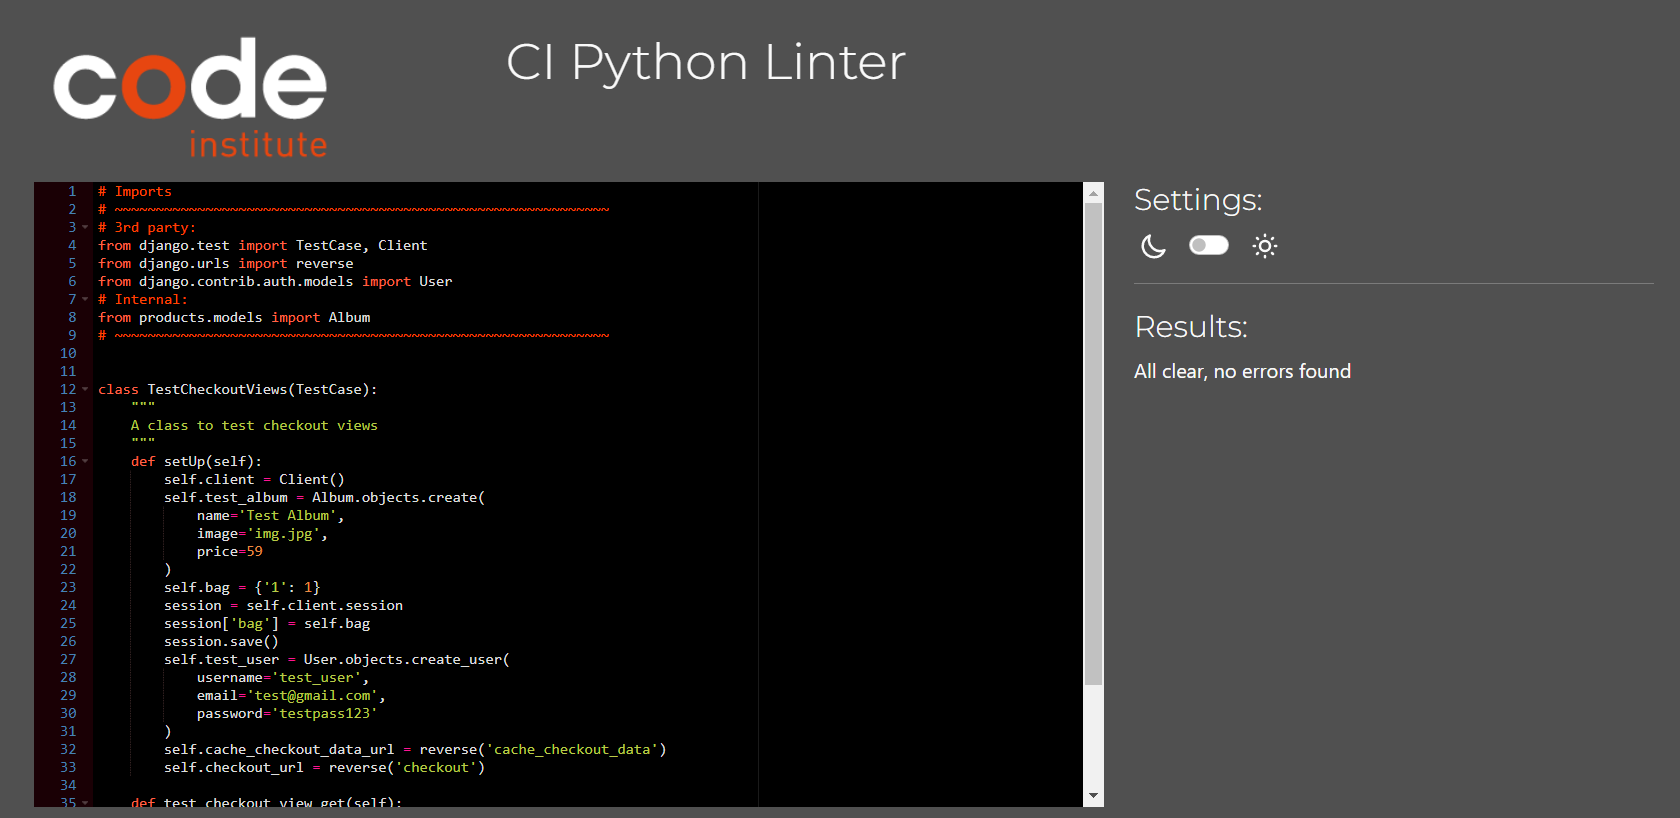
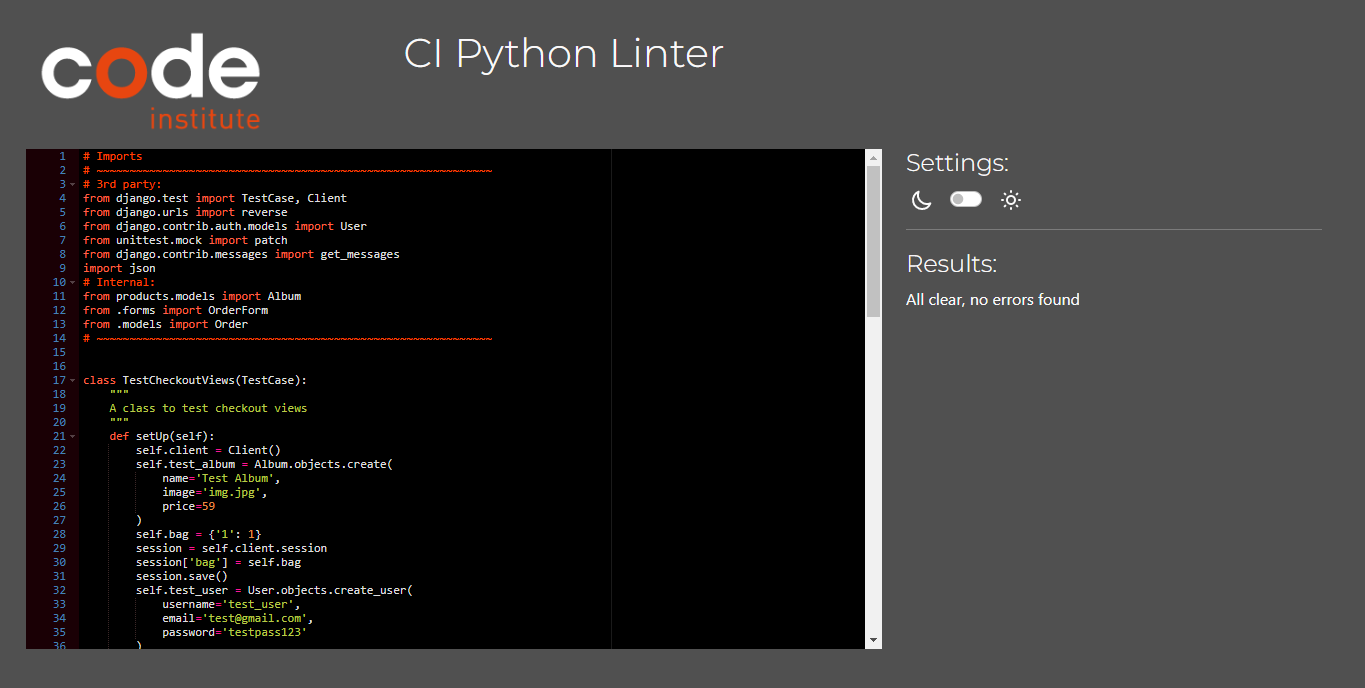
add checkout views unittest, add automated testing section to readme

Changed region(s): [[0.0, 0.0305, 0.8, 1.0], [0.2769, 0.0305, 0.5538, 0.1221]]

diff --git a/checkout/test_views.py b/checkout/test_views.py
@@ -4,8 +4,13 @@
 from django.test import TestCase, Client
 from django.urls import reverse
 from django.contrib.auth.models import User
+from unittest.mock import patch
+from django.contrib.messages import get_messages
+import json
 # Internal:
 from products.models import Album
+from .forms import OrderForm
+from .models import Order
 # ~~~~~~~~~~~~~~~~~~~~~~~~~~~~~~~~~~~~~~~~~~~~~~~~~~~~~~~~~~~~
 
 
@@ -29,6 +34,20 @@ class TestCheckoutViews(TestCase):
             email='test@gmail.com',
             password='testpass123'
         )
+        self.valid_test_data = {
+                'full_name': 'Test User',
+                'email': 'testuser@test.com',
+                'phone_number': '12345678',
+                'address1': '12 Test Street',
+                'address2': 'Test Address',
+                'postcode': 'TE54T1',
+                'town_or_city': 'Test City',
+                'country': 'US',
+                'county': 'Test County',
+                'client_secret': 'test_secret',
+                'save_info': True
+        }
+        self.client.login(username='test_user', password='testpass123')
         self.cache_checkout_data_url = reverse('cache_checkout_data')
         self.checkout_url = reverse('checkout')
 
@@ -39,3 +58,52 @@ class TestCheckoutViews(TestCase):
         response = self.client.get(self.checkout_url)
         self.assertEqual(response.status_code, 200)
         self.assertTemplateUsed(response, 'checkout/checkout.html')
+
+    def test_cache_checkout_data_view(self):
+        """
+        A function to test caching checkout data
+        """
+        pid = 'test_pid'
+        save_info = 'false'
+        bag = self.bag
+        with patch('checkout.views.stripe.PaymentIntent.modify') \
+                as mock_modify:
+            response = self.client.post(self.cache_checkout_data_url, {
+                                'client_secret': f'{pid}_secret',
+                                'save_info': save_info,
+                                'username': self.test_user,
+                                'bag': json.dumps(bag)
+                            })
+            self.assertEqual(response.status_code, 200)
+            mock_modify.assert_called_once_with(pid, metadata={
+                'bag': json.dumps(bag),
+                'save_info': save_info,
+                'username': self.test_user,
+            })
+
+    def test_checkout_view_with_empty_bag(self):
+        """
+        A function to test checkout view with empty bag
+        """
+        self.bag = {}
+        session = self.client.session
+        session['bag'] = self.bag
+        session.save()
+        response = self.client.get(self.checkout_url)
+        messages = list(get_messages(response.wsgi_request))
+        self.assertEqual(response.status_code, 302)
+        self.assertRedirects(response, reverse('products'), status_code=302)
+        self.assertEqual(len(messages), 1)
+        self.assertEqual(
+            str(messages[0]), "There's nothing in your bag at the moment")
+
+    def test_checkout_and_checkout_success_view(self):
+        """
+        A function to test checkout view with filled bag
+        and test redirect to checkout_success view
+        """
+        form_data = self.valid_test_data.copy()
+        response = self.client.post(reverse('checkout'), data=form_data)
+        order = Order.objects.all()[0]
+        self.assertRedirects(response, reverse(
+            'checkout_success', args=[order.order_number]), status_code=302)

diff --git a/vinyl_store/settings.py b/vinyl_store/settings.py
@@ -141,14 +141,6 @@ else:
         }
     }
 
-##############################################################
-# DATABASES = {
-#     'default': {
-#         'ENGINE': 'django.db.backends.sqlite3',
-#         'NAME': os.path.join(BASE_DIR, 'db.sqlite3'),
-#     }
-# }
-##############################################################
 
 # Password validation
 # https://docs.djangoproject.com/en/3.2/ref/settings/#auth-password-validators

diff --git a/README.md b/README.md
@@ -53,6 +53,7 @@
   - [PageSpeed Insights](#pagespeed-insights)
 - [Testing](#testing)
   - [Manual testing](#manual-testing)
+  - [Automated testing](#automated-testing)
   - [Device Testing \& Browser compatibility](#device-testing--browser-compatibility)
 - [Bugs](#bugs)
 - [Deployment](#deployment)
@@ -1787,6 +1788,35 @@ Functionality available only for website Admin or Authorised user by Admin
 <img src="docs/testing/manual_testing/test-25-3.png">
 </details>
 
+### Automated testing
+
+Testing was done using the built in Django module, unittest.
+Coverage was also usesd to generate a report
+
+- Bag, test_views.py
+
+<details><summary>See Images</summary>
+<img src="docs/testing/automated/test_bag_views.png">
+</details>
+
+- Checkout, test_views.py
+
+<details><summary>See Images</summary>
+<img src="docs/testing/automated/test_checkout_views.png">
+</details>
+
+- Coverage Bag
+
+<details><summary>See Images</summary>
+<img src="docs/testing/automated/test_coverage_bag.png">
+</details>
+
+- Coverage Checkout
+
+<details><summary>See Images</summary>
+<img src="docs/testing/automated/test_coverage_checkout.png">
+</details>
+
 ### Device Testing & Browser compatibility
 
 The site uses to test on various real world devices was [BrowserStack](https://www.browserstack.com/)
@@ -2036,8 +2066,8 @@ You can clone the repository by following these steps:
 ## Credits
 
 ### Code  
-- Code Institute for the search and sorting functionality, bag and checkout app as a basis for my checkout and basket apps
-- Code Institute Tutor support for guidance on many of my bug fixes.
+- Code Institute for the search and sorting functionality, bag and checkout app as a basis for my checkout and bag apps
+- Code Institute Tutor support for guidance on my bug fixes.
 
 ### Media
 
